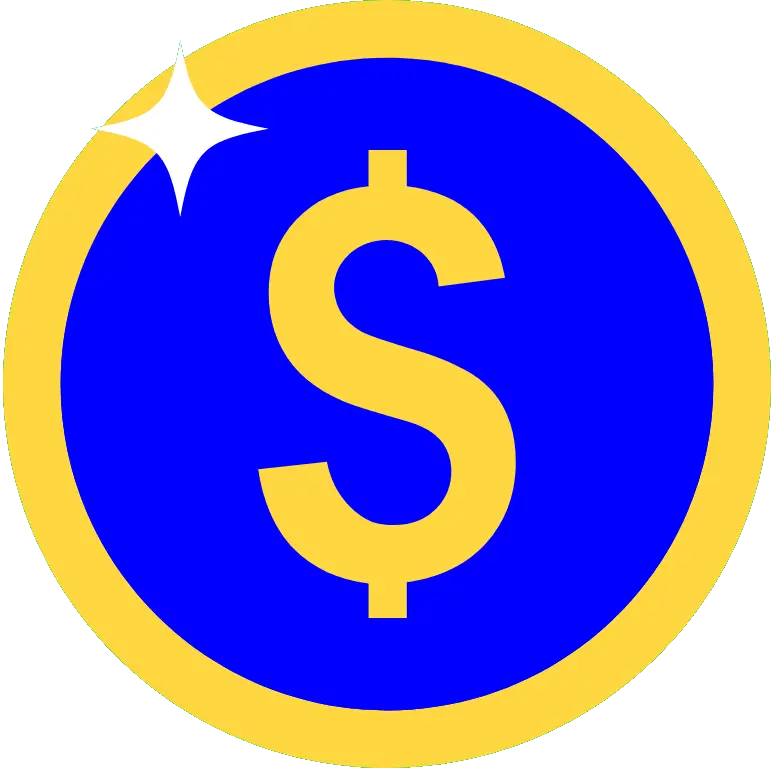
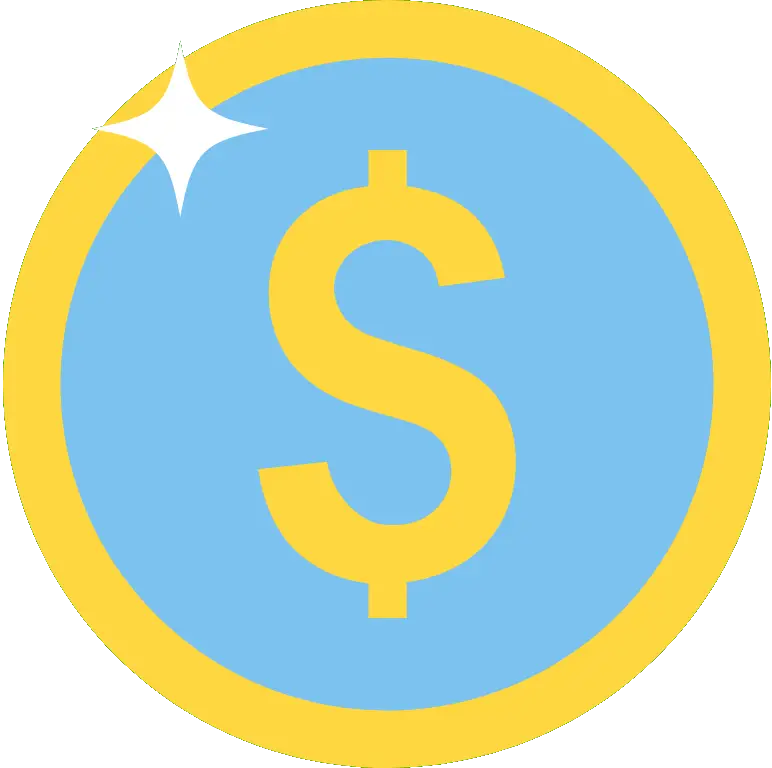
colorgame

diff --git a/frontend/src/pages/ColorGameHardLevel1.jsx b/frontend/src/pages/ColorGameHardLevel1.jsx
@@ -233,7 +233,7 @@ function NumberGameMed2() {
                 dropped["blue"] && (
                   <Draggable
                     id="blue"
-                    shape={<div className="h-[100vw] w-20 bg-[#0000FF]"></div>}
+                    shape={<div className="h-[100vw] w-20 bg-[#7dc2f0]"></div>}
                     disabled={true}
                   />
                 )
@@ -247,7 +247,7 @@ function NumberGameMed2() {
                 dropped["indigo"] && (
                   <Draggable
                     id="indigo"
-                    shape={<div className="h-[100vw] w-20 bg-[#4b0082]"></div>}
+                    shape={<div className="h-[100vw] w-20 bg-[#3113aa]"></div>}
                     disabled={true}
                   />
                 )
@@ -261,7 +261,7 @@ function NumberGameMed2() {
                 dropped["violet"] && (
                   <Draggable
                     id="violet"
-                    shape={<div className="h-[100vw] w-20 bg-[#8F00FF]"></div>}
+                    shape={<div className="h-[100vw] w-20 bg-[#603a96]"></div>}
                     disabled={true}
                   />
                 )
